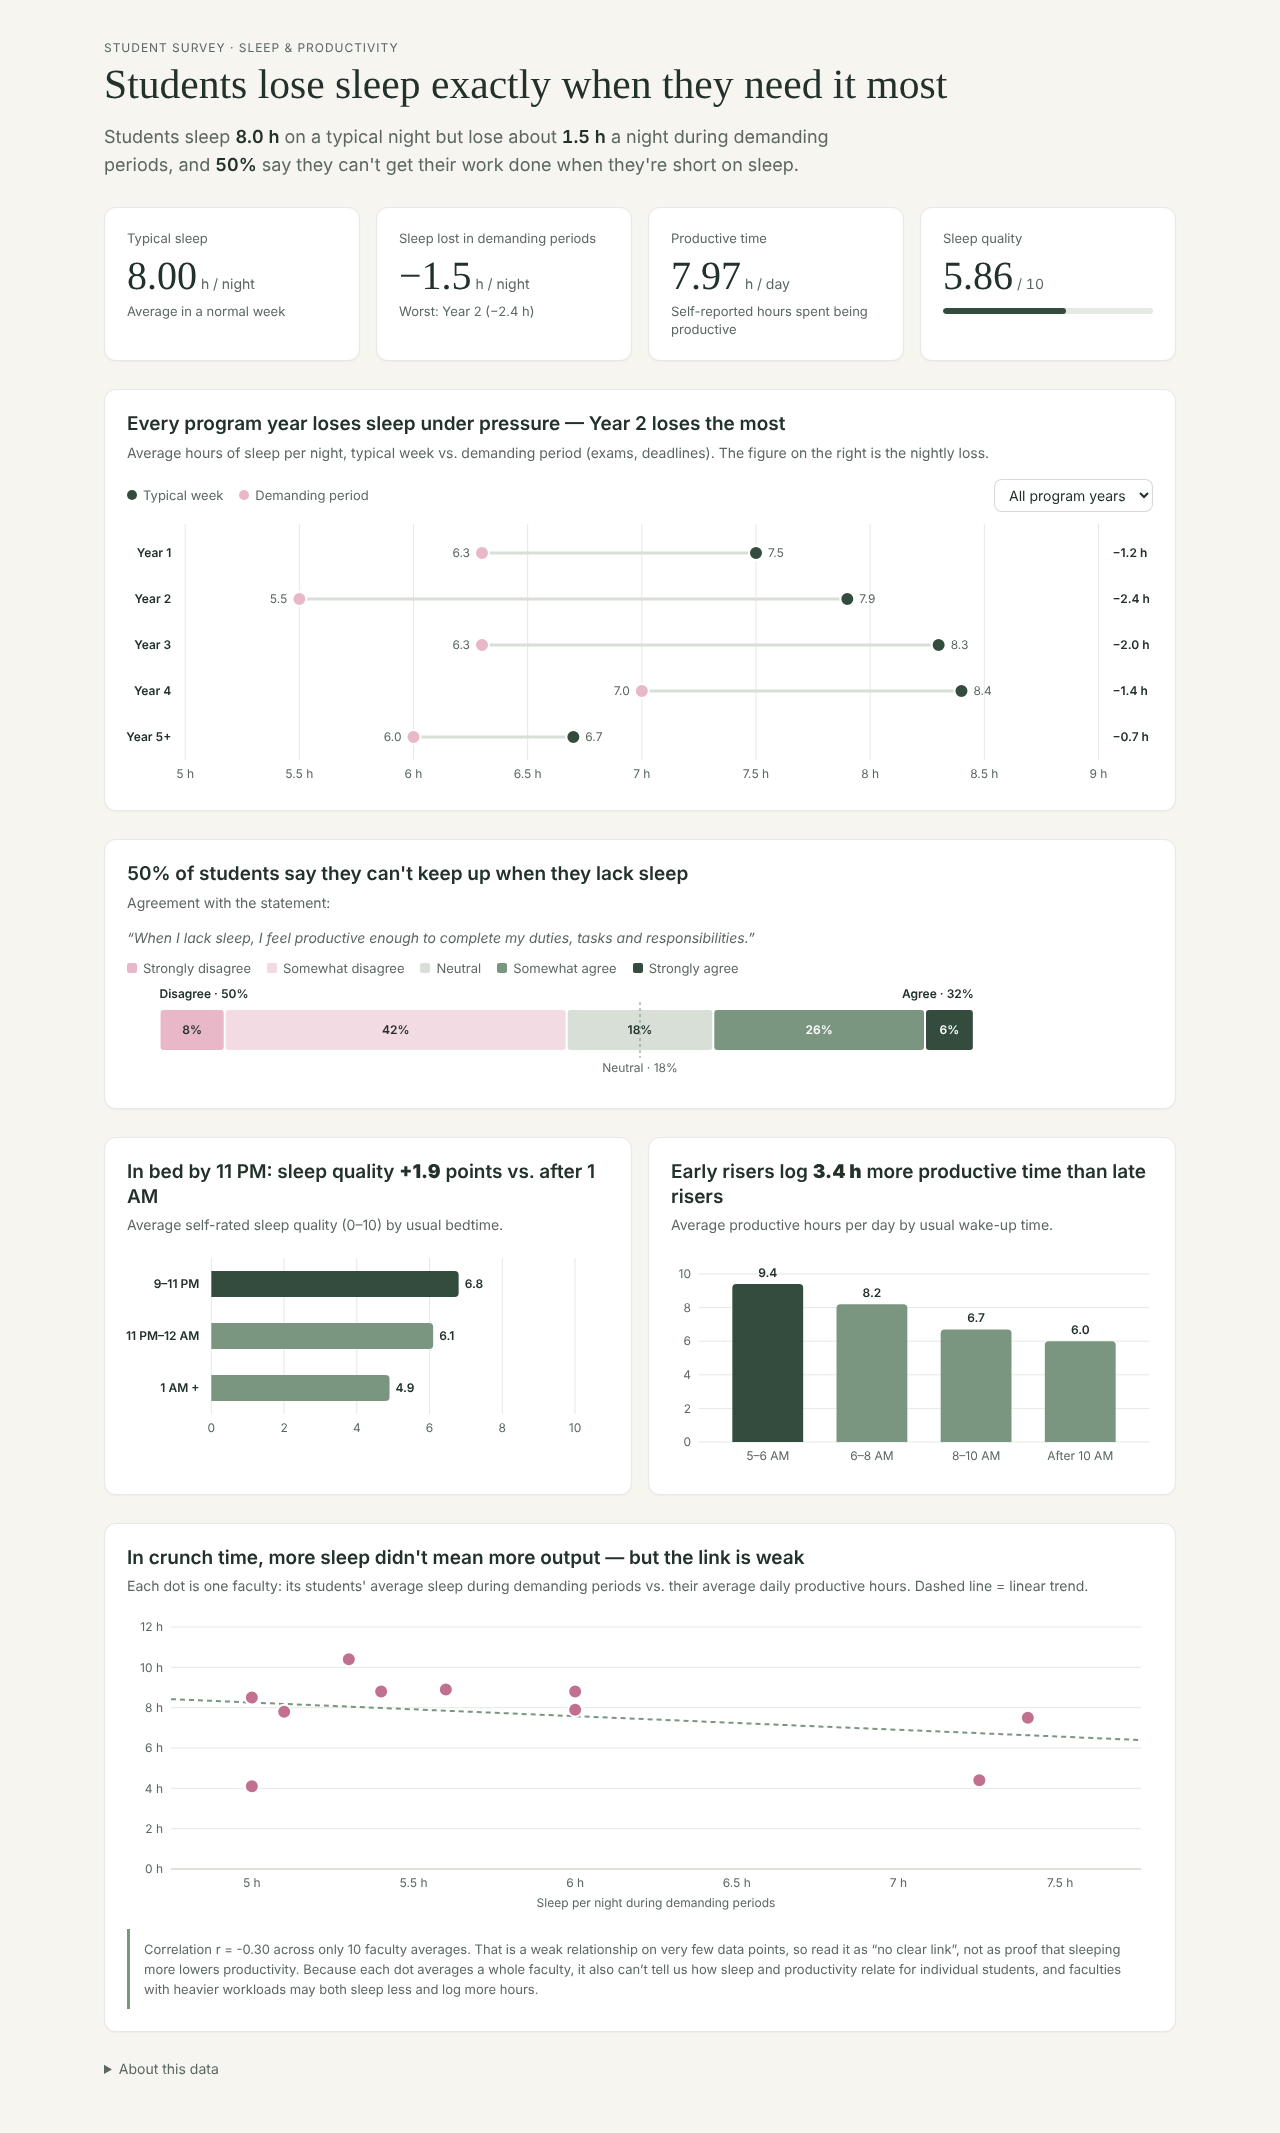
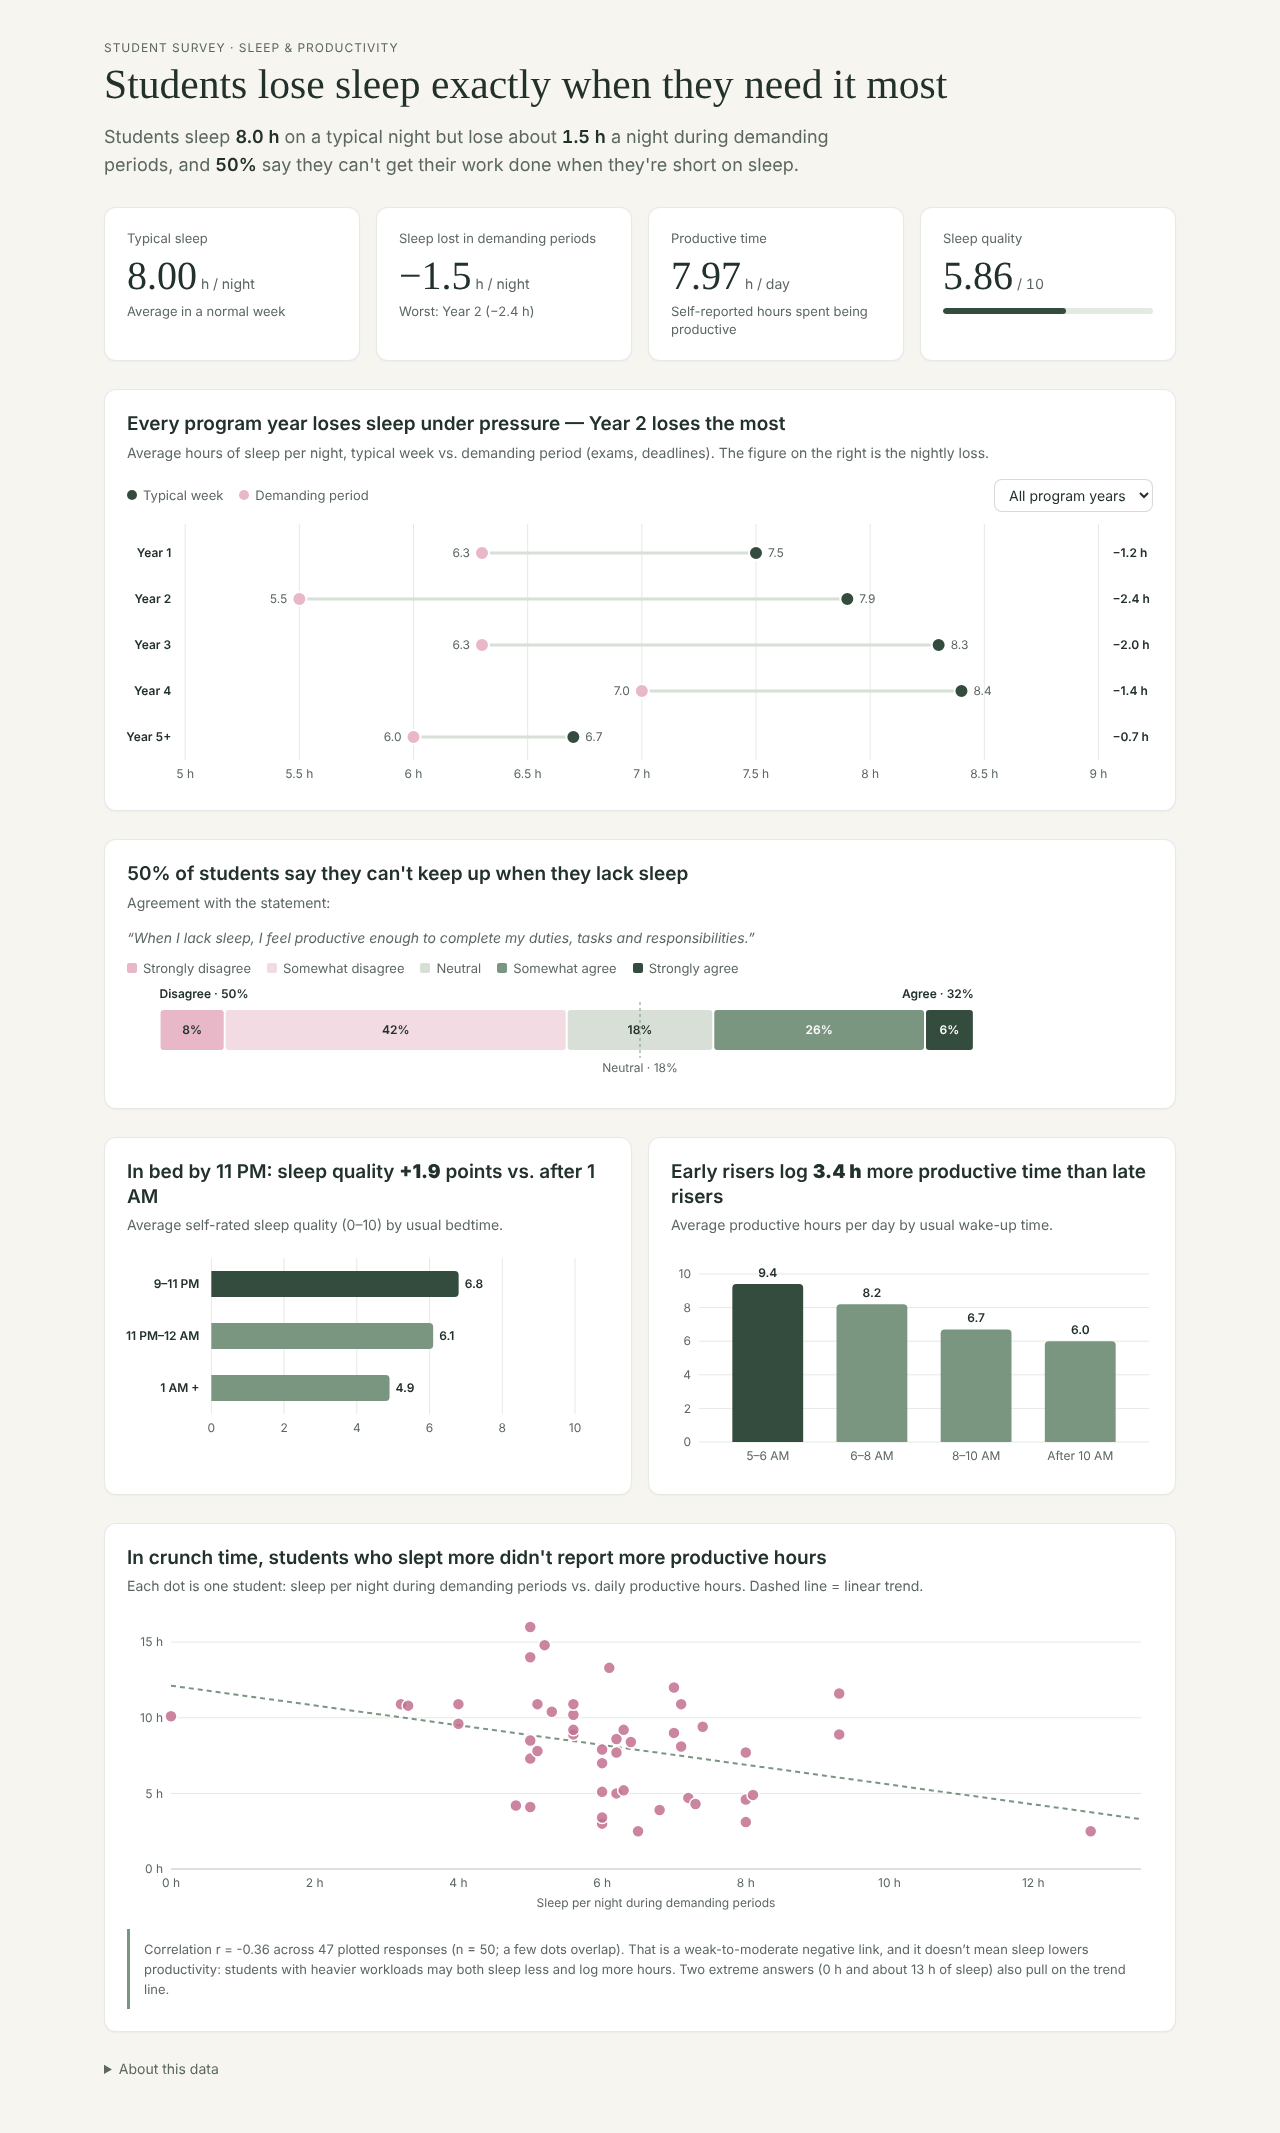
Add files via upload

diff --git a/README (3).md b/README (3).md
@@ -12,7 +12,7 @@ An interactive dashboard exploring how students' sleep habits relate to their pr
 - **Half say lack of sleep hurts their work.** 50% of students disagree that they feel productive enough when short on sleep; only 32% agree.
 - **Earlier bedtimes go with better sleep.** Students in bed by 11 PM rate their sleep quality about 1.9 points higher (out of 10) than those going to bed after 1 AM.
 - **Early risers report more productive time.** Students waking at 5–6 AM log 3.4 more productive hours per day than those waking after 10 AM.
-- **No clear link at the faculty level.** Across the 10 faculty averages, more sleep during demanding periods was not associated with more productive hours (r = −0.30, a weak relationship on few data points).
+- **More sleep in crunch time didn't mean more productive hours.** Across individual respondents, students who slept more during demanding periods actually reported slightly fewer productive hours (r = −0.36, a weak-to-moderate link). This likely reflects workload (busier students sleep less and work more) rather than sleep lowering productivity.
 
 ## Features
 
@@ -20,7 +20,7 @@ An interactive dashboard exploring how students' sleep habits relate to their pr
 - Dot plot comparing typical vs. demanding-period sleep by program year, with a year filter
 - Diverging bar chart for the survey's agree/disagree question
 - Bar charts for sleep quality by bedtime and productivity by wake-up time
-- Scatter plot with trend line and correlation, plus a note on how to interpret it
+- Respondent-level scatter plot with trend line and correlation, plus a note on how to interpret it
 - Hover tooltips, responsive layout for desktop and mobile
 
 ## My role
@@ -35,7 +35,7 @@ The survey was designed and conducted as a group project. **I designed and built
 
 ## Data notes
 
-- Sample: 50 students from 10 faculties (n = 50). The scatter plot shows faculty averages, so it can't describe individual students.
+- Sample: 50 students from 10 faculties (n = 50). The scatter plot shows one dot per respondent.
 - “Sleep lost” is typical minus demanding-period sleep; the overall average is the simple mean across program years.
 - Correlation is not causation: these results show associations, not effects of sleep on productivity.
 
